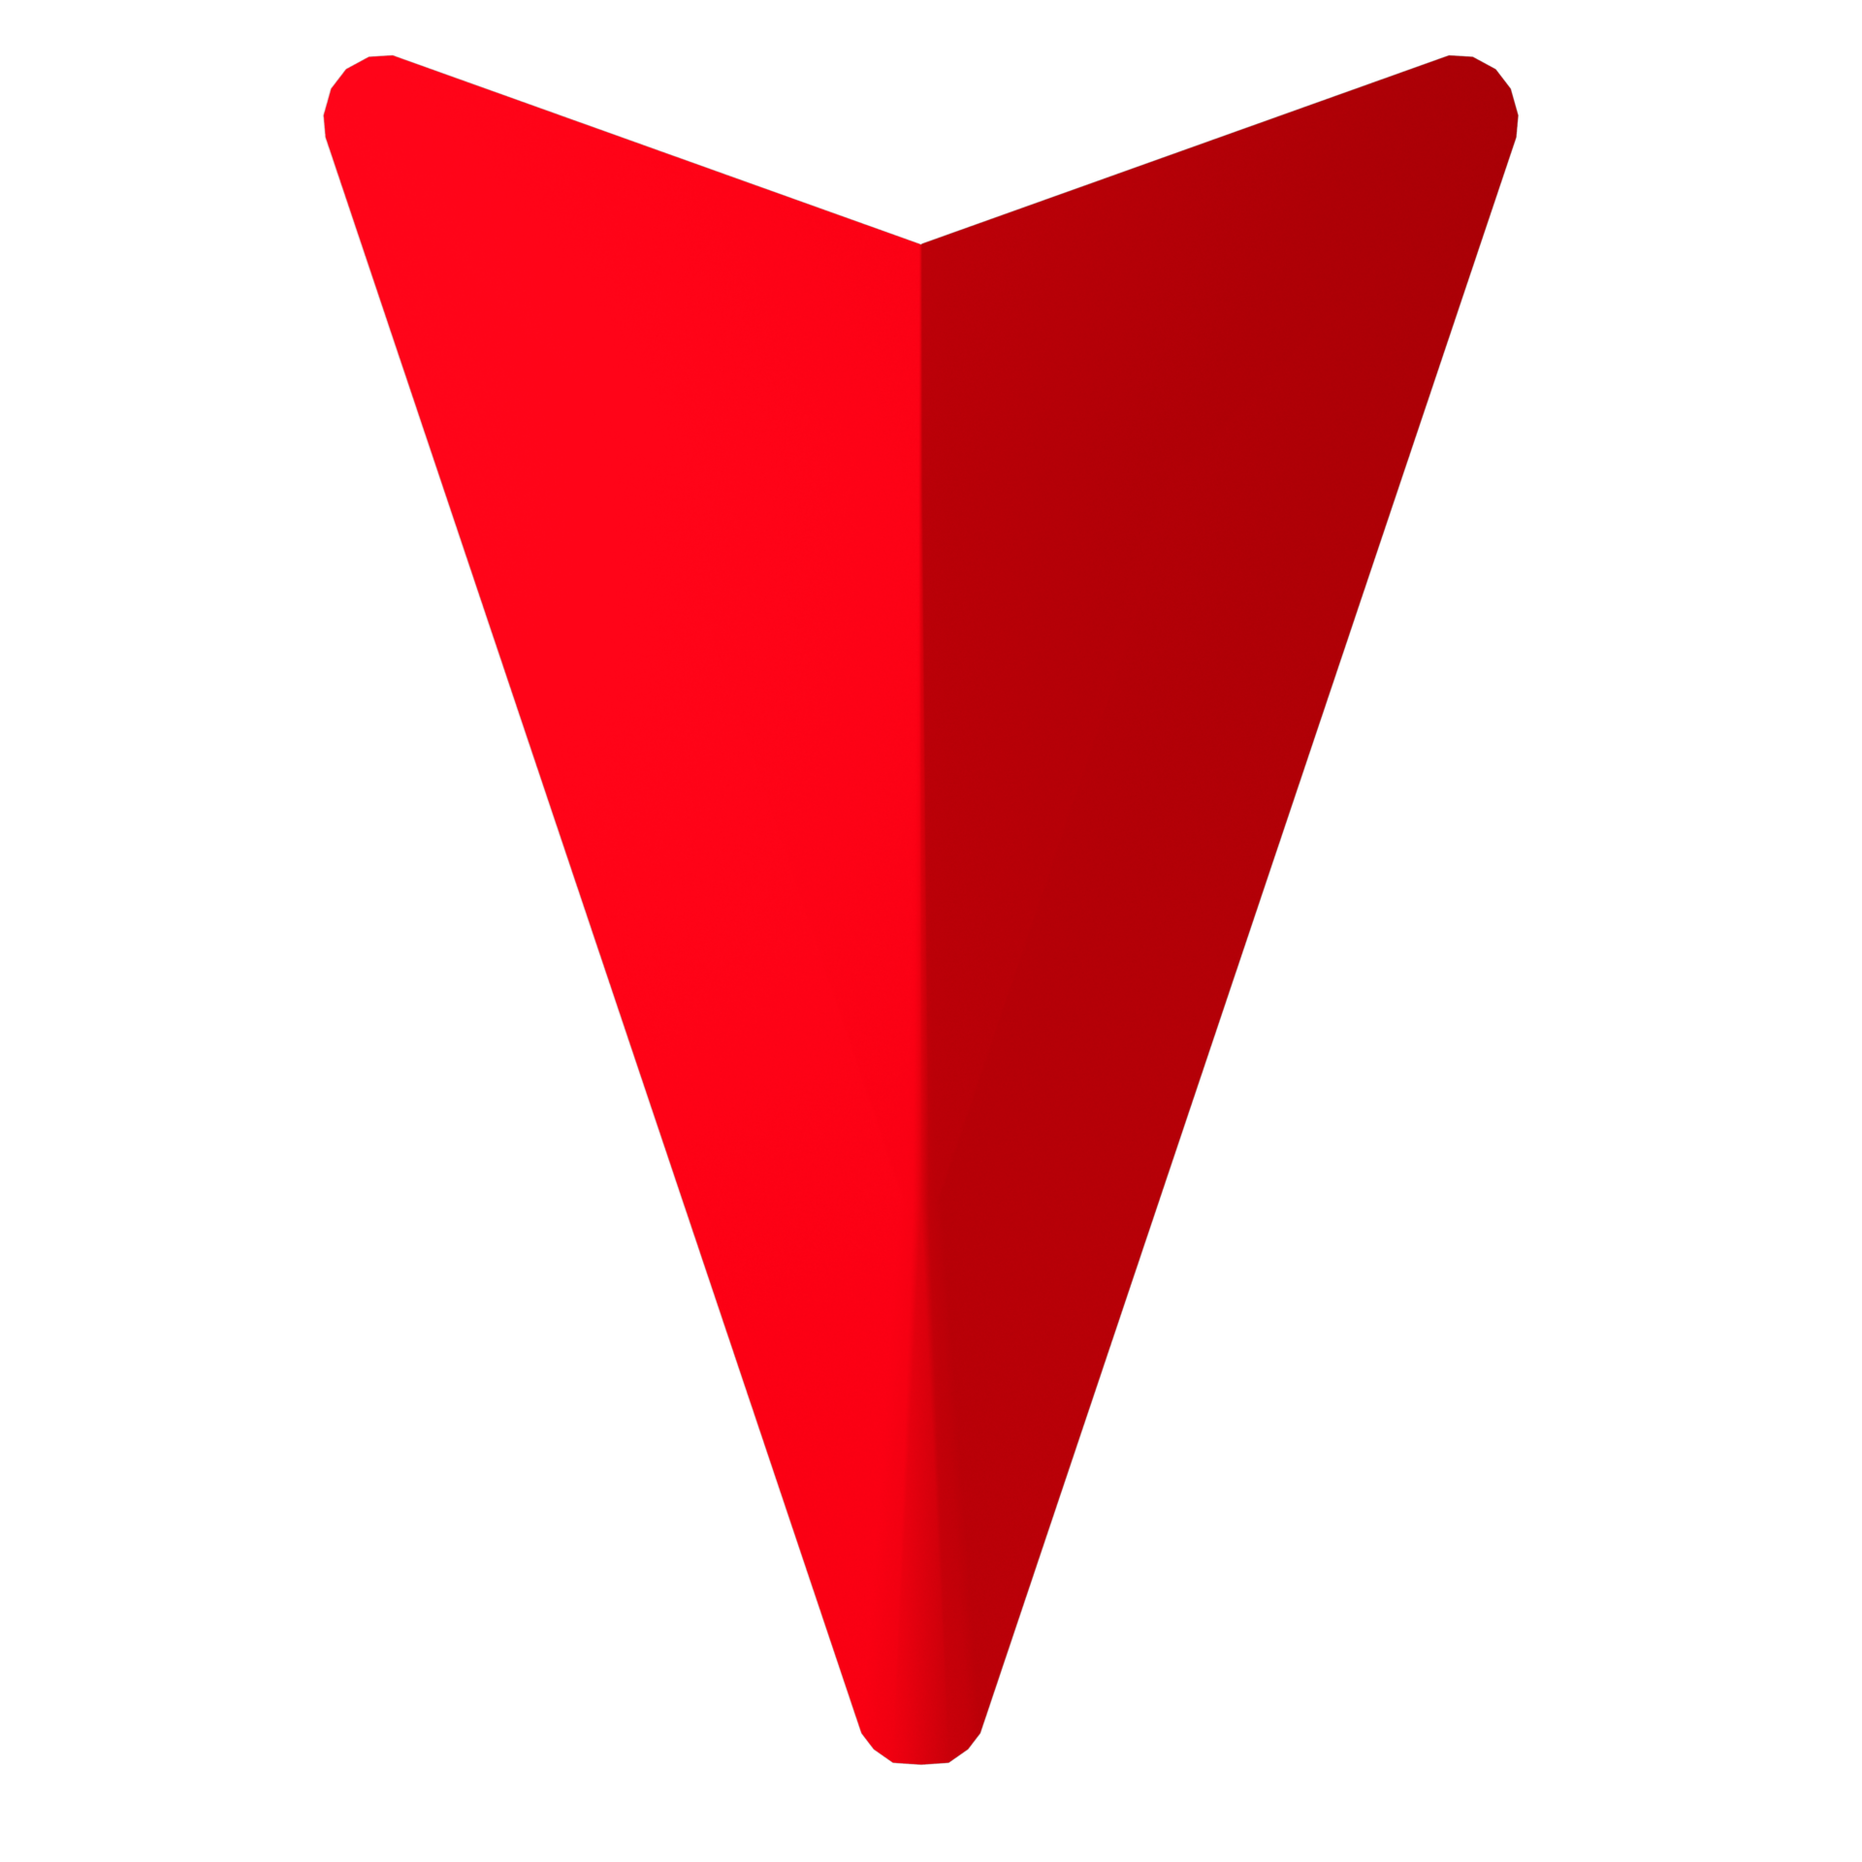
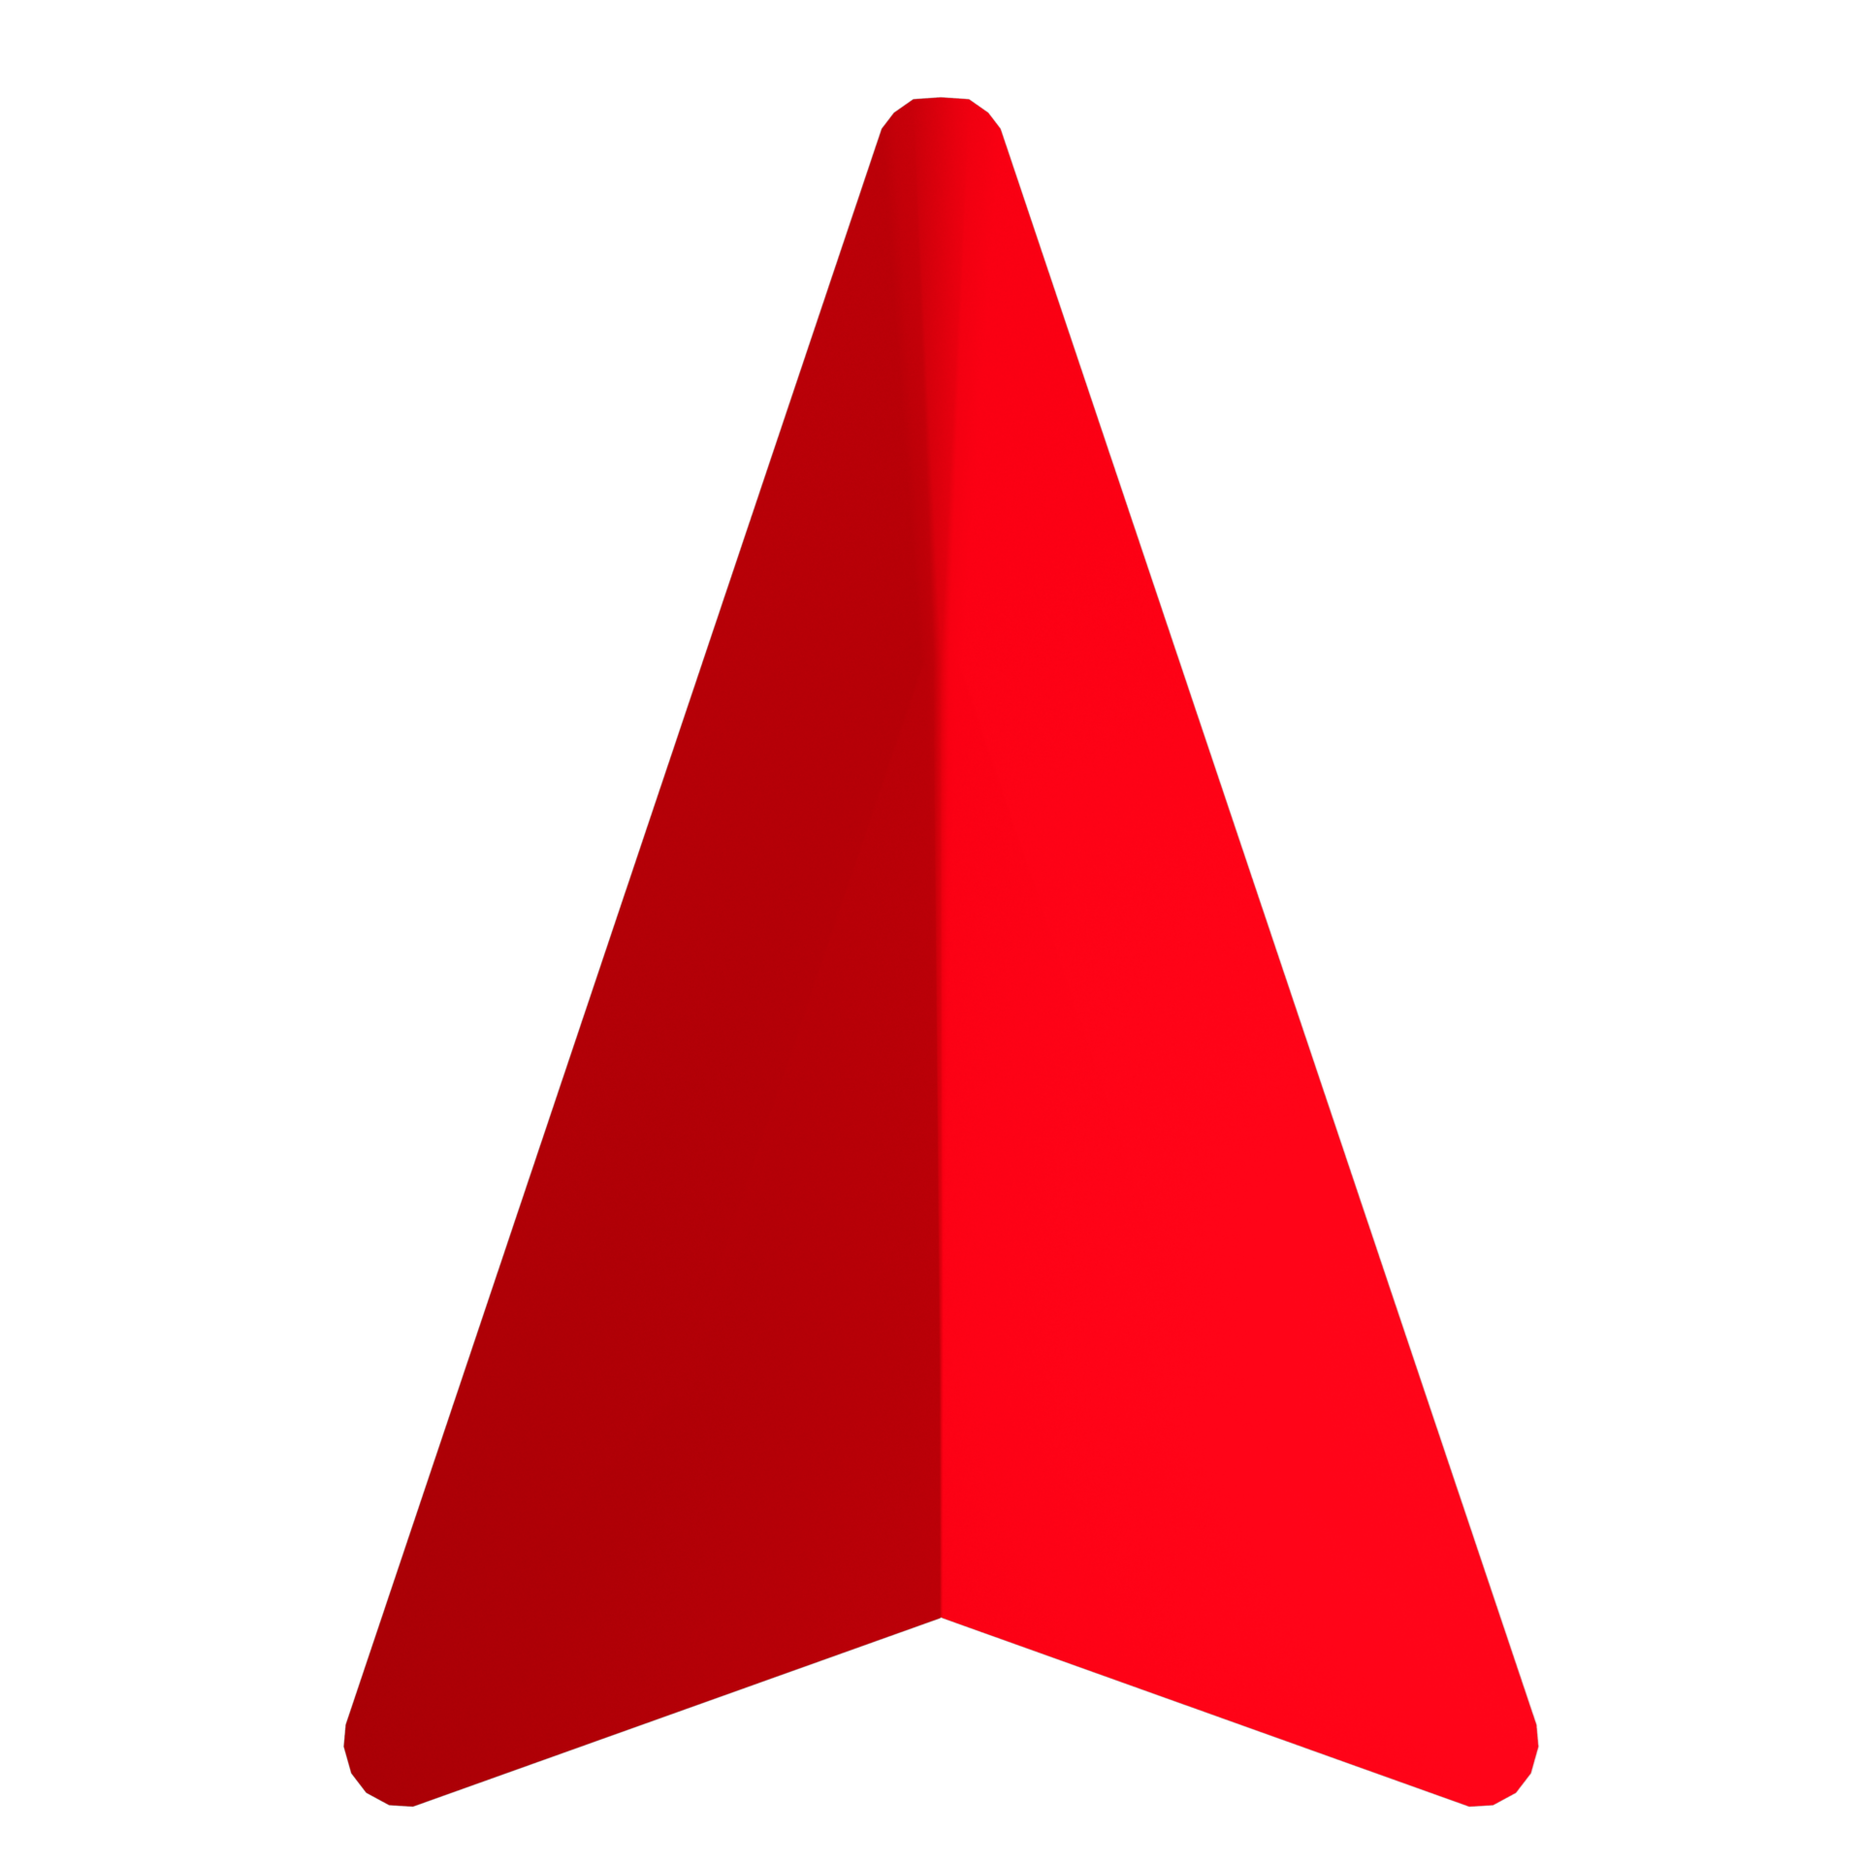
added gaussian dist for sensor placement sensor data is now in ac_inputs

diff --git a/ac_inputs.py b/ac_inputs.py
@@ -32,51 +32,15 @@ else:
     print("Initialization already done. Skipping setup.")
 
 
-def read_map_config(path):
-    config = configparser.ConfigParser()
-
-    # Read the .ini file
-    config.read(path)
-    parameters = {}
-    if 'PARAMETERS' in config:
-        for key in config['PARAMETERS']:
-            value = config.get('PARAMETERS', key)
-            if value.isdigit():
-                parameters[key] = int(value)
-            elif value.replace('.', '', 1).isdigit():
-                parameters[key] = float(value)
-            else:
-                parameters[key] = value
-
-    return parameters
-
-
-def get_track_attributes():
-    assetto_corsa_root = 'D:\\SteamLibrary\\steamapps\\common\\assettocorsa\\'
-    tracks_root = 'content\\tracks\\'
-
-    current_track = f'{assetto_corsa_root}{tracks_root}{gi.track_name[0]}'
-    if gi.track_name[1]:
-        current_track = f'{current_track}\\{gi.track_name[1]}'
-
-    track_map_path = f'{current_track}\\map.png'
-    map_data_path = f'{current_track}\\data\\map.ini'
-    map_data = read_map_config(map_data_path)
-    map_image = Image.open(track_map_path)
-
-    map_ = {'map_data': map_data,
-            'map_image': map_image}
-
-    return map_
-
-
-def count_attributes(cls):
-    return len([attr for attr in dir(cls) if not attr.startswith('__') and not callable(getattr(cls, attr))])
+def count_info_attributes(cls):
+    return [attr for attr in dir(cls) if not attr.startswith('__') and not callable(getattr(cls, attr))]
 
 
 class GetInfo:
     def __init__(self) -> None:
-        pass
+        current_track = self.get_track_attributes()
+        self.map_data = current_track['map_data']
+        self.map_image = current_track['map_image']
 
     @ property
     def track_name(self):
@@ -189,6 +153,58 @@ class GetInfo:
         '''Returns [x,y,z]'''
         return info.graphics.carCoordinates[:]
 
+    def gauss(self, n, sigma=50, range=(0, 1)):
+        r = np.arange(-int(n/2), int(n/2)+1)
+        result = np.array([1 / (sigma * np.sqrt(2*np.pi)) *
+                          np.exp(-float(x)**2/(2*sigma**2)) for x in r])
+        result = (result - min(result)) / (max(result) - min(result))
+        if range != (0, 1):
+            result = result * (range[1] - range[0]) + range[0]
+        return result
+
+    def read_map_config(self, path):
+        config = configparser.ConfigParser()
+
+        # Read the .ini file
+        config.read(path)
+        parameters = {}
+        if 'PARAMETERS' in config:
+            for key in config['PARAMETERS']:
+                value = config.get('PARAMETERS', key)
+                if value.isdigit():
+                    parameters[key] = int(value)
+                elif value.replace('.', '', 1).isdigit():
+                    parameters[key] = float(value)
+                else:
+                    parameters[key] = value
+
+        return parameters
+
+    def get_track_attributes(self):
+        assetto_corsa_root = 'D:\\SteamLibrary\\steamapps\\common\\assettocorsa\\'
+        tracks_root = 'content\\tracks\\'
+
+        current_track = f'{assetto_corsa_root}{tracks_root}{self.track_name[0]}'
+        if self.track_name[1]:
+            current_track = f'{current_track}\\{self.track_name[1]}'
+
+        track_map_path = f'{current_track}\\map.png'
+        map_data_path = f'{current_track}\\data\\map.ini'
+        map_data = self.read_map_config(map_data_path)
+        map_image = Image.open(track_map_path)
+
+        map_ = {'map_data': map_data,
+                'map_image': map_image}
+
+        return map_
+
+    prev_sensor_mean_angle = 0
+
+    def all_sensors(self):
+        return self.get_sensors()
+    sensors = []
+    triggered_sensors = []
+
     def get_sensors(self, min_sensor_distance=10, min_sensor_count=5, FOV_degrees=90):
         coords = self.coordinates
         heading = self.heading
@@ -202,22 +218,62 @@ class GetInfo:
             int(np.ceil(min_sensor_count * sensor_distance/25) // 2 * 2 + 1), min_sensor_count)
 
         angles = np.linspace(-FOV_radians/2, FOV_radians/2,
-                             sensor_count) + np.radians(90)  # offset is due to headingbeing off by -90 degrees
+                             sensor_count) + np.radians(90)  # offset is due to heading being off by -90 degrees
+        # FIXME Sensor drawer has a problem, i shouldn't really offset it
+        # angles = np.arcsin(angles) * FOV_radians / 2
+        distance_offset = self.gauss(
+            sensor_count, 500/self.speed, (.25, 1))
+        # FIXME The top of the gaussian is sparse, fix it
+        #
         sensors = []
-        for angle in angles:
-            sensor_x = coords[0] + sensor_distance * math.cos(heading + angle)
-            sensor_z = coords[2] + sensor_distance * math.sin(heading + angle)
-            sensors.append((sensor_x, sensor_z))
-        return sensors
+        triggered_sensors = [sensor_distance]
+        for idx, angle in enumerate(angles):
+            sensor_x = self.map_data['x_offset'] + \
+                coords[0] + sensor_distance * distance_offset[idx] * \
+                np.cos(heading + angle) * self.map_data['scale_factor']
+
+            sensor_z = self.map_data['z_offset'] + \
+                coords[2] + sensor_distance * distance_offset[idx] * \
+                np.sin(heading + angle) * self.map_data['scale_factor']
+            is_sensor_on_track = self.is_sensor_on_track(
+                sensor_x, sensor_z)
+
+            sensors.append((sensor_x, sensor_z, angle))
+            if is_sensor_on_track:
+                triggered_sensors.append(angle)
+
+        sensor_mean_angle = np.degrees(
+            np.mean(triggered_sensors[1:]))-90
+
+        if np.isnan(sensor_mean_angle):
+            sensor_mean_angle = self.prev_sensor_mean_angle
+        self.prev_sensor_mean_angle = sensor_mean_angle
+
+        triggered_sensors.append(sensor_mean_angle)
+        return sensors, triggered_sensors
+
+    def is_sensor_on_track(self, x, z):
+        # Check if coordinates are within the bounds of the map image
+        if 0 <= int(x) < self.map_image.width and 0 <= int(z) < self.map_image.height:
+            try:
+                pixel_color = self.map_image.getpixel((int(x), int(z)))
+                alpha_value = pixel_color[3]
+                return True if alpha_value == 255 else False
+
+            except Exception as e:
+                print(f"Error checking pixel color at ({x}, {z}):", e)
+                return False
+        else:
+            return False
 
 
 gi = GetInfo()
 
-current_track = get_track_attributes()
+current_track = gi.get_track_attributes()
 
 
 if __name__ == '__main__':
     print(f'Track: {gi.track_name}')
     print(f'Car: {gi.car_name}')
-    print(f'Class attribute count: {count_attributes(gi)}')
+    print(f'Class attribute count: {len(count_info_attributes(gi))}')
     print(current_track['map_data'])

diff --git a/minimap.py b/minimap.py
@@ -1,18 +1,22 @@
-import tkinter as tk
 import math
+import tkinter as tk
+
+import numpy as np
 from PIL import Image, ImageTk
-from ac_inputs import GetInfo, get_track_attributes
+
+from ac_inputs import GetInfo
 
 
 class MinimapApp:
     def __init__(self, root):
+        self.gi = GetInfo()
         self.root = root
         self.root.title("Minimap")
         self.canvas = tk.Canvas(
-            root, width=map_data['width'], height=map_data['height'])
+            root, width=self.gi.map_data['width'], height=self.gi.map_data['height'])
         self.canvas.pack()
 
-        self.map_image_tk = ImageTk.PhotoImage(map_image)
+        self.map_image_tk = ImageTk.PhotoImage(self.gi.map_image)
         self.map_image_on_canvas = self.canvas.create_image(
             0, 0, anchor=tk.NW, image=self.map_image_tk)
 
@@ -21,40 +25,41 @@ class MinimapApp:
         self.arrow_on_canvas = None
 
         self.sensors_on_canvas = []
+        self.sensor_info = self.canvas.create_text(
+            50, 20, anchor='nw', text='', font=("Arial", 12), fill="black")
 
+        # self.triggered_sensors = [0]*5
+
+        self.display_data = self.create_data_on_canvas()
         self.update_minimap()
 
-    def update_minimap(self):
+    def draw_car(self):
         if self.arrow_on_canvas:
             self.canvas.delete(self.arrow_on_canvas)
-        for sensor in self.sensors_on_canvas:
-            self.canvas.delete(sensor)
-        self.sensors_on_canvas.clear()
 
-        coords = gi.coordinates
-        heading = gi.heading
-
-        player_x = map_data['x_offset'] + coords[0] * map_data['scale_factor']
-        player_z = map_data['z_offset'] + coords[2] * map_data['scale_factor']
+        player_x = self.gi.map_data['x_offset'] + \
+            self.gi.coordinates[0] * self.gi.map_data['scale_factor']
+        player_z = self.gi.map_data['z_offset'] + \
+            self.gi.coordinates[2] * self.gi.map_data['scale_factor']
 
         arrow_image_rotated = self.arrow_image.rotate(
-            math.degrees(-heading), expand=True)
+            (math.degrees(-self.gi.heading)+180), expand=True)
         self.arrow_image_tk = ImageTk.PhotoImage(arrow_image_rotated)
 
         self.arrow_on_canvas = self.canvas.create_image(
             player_x, player_z, anchor=tk.CENTER, image=self.arrow_image_tk)
 
-        sensors = gi.get_sensors(
-            min_sensor_distance=10, min_sensor_count=15, FOV_degrees=180)
+    def draw_sensors(self, all_sensors, triggered_sensors):
+        for sensor in self.sensors_on_canvas:
+            self.canvas.delete(sensor)
+        self.sensors_on_canvas.clear()
 
-        for sensor in sensors:
-            sensor_x = map_data['x_offset'] + \
-                sensor[0] * map_data['scale_factor']
-            sensor_z = map_data['z_offset'] + \
-                sensor[1] * map_data['scale_factor']
-
-            if self.is_on_track(sensor_x, sensor_z):
+        for sensor in all_sensors:
+            sensor_x = sensor[0]
+            sensor_z = sensor[1]
+            if sensor[2] in triggered_sensors[1:-1]:  # True if sensor is in track
                 sensor_color = "green"
+
             else:
                 sensor_color = "red"
 
@@ -63,32 +68,64 @@ class MinimapApp:
             )
             self.sensors_on_canvas.append(sensor_on_canvas)
 
+    def create_data_on_canvas(self):
+
+        self.data_text_items = []
+        y_offset = 200  # Starting y-position
+
+        data = {
+            'sensor_distance': 0,
+            'sensor_mean_angle': 0,
+            'performance_meter': self.gi.performance_meter,
+            'speed': self.gi.speed,
+            'steer_angle': self.gi.steer_angle,
+            'track_completion': self.gi.track_completion,
+            'wheel_slip_FL': self.gi.wheel_slip[0],
+            'wheel_slip_FR': self.gi.wheel_slip[1],
+            'wheel_slip_RL': self.gi.wheel_slip[2],
+            'wheel_slip_RR': self.gi.wheel_slip[3],
+            'wheels_offtrack': self.gi.wheels_offtrack}
+
+        for i, key in enumerate(data.keys()):
+            text_item = self.canvas.create_text(
+                200, y_offset + i * 20, anchor='w', text=f"{key}: {data[key]}", font=("Arial", 12), fill="black")
+            self.data_text_items.append(text_item)
+
+    def update_data_on_canvas(self, triggered_sensors):
+        sensor_distance = triggered_sensors[0]
+        sensor_mean_angle = triggered_sensors[-1]
+
+        data = {
+            'sensor_distance': sensor_distance,
+            'sensor_mean_angle': sensor_mean_angle,
+            'performance_meter': self.gi.performance_meter,
+            'speed': self.gi.speed,
+            'steer_angle': self.gi.steer_angle,
+            'track_completion': self.gi.track_completion,
+            'wheel_slip_FL': self.gi.wheel_slip[0],
+            'wheel_slip_FR': self.gi.wheel_slip[1],
+            'wheel_slip_RL': self.gi.wheel_slip[2],
+            'wheel_slip_RR': self.gi.wheel_slip[3],
+            'wheels_offtrack': self.gi.wheels_offtrack}
+
+        for i, (key, value) in enumerate(data.items()):
+            # Update each text item with the new value
+            self.canvas.itemconfig(
+                self.data_text_items[i], text=f"{key}: {value}")
+
+    def update_minimap(self):
+
+        all_sensors, triggered_sensors = self.gi.get_sensors(
+            min_sensor_distance=10, min_sensor_count=5, FOV_degrees=90)
+
+        self.draw_car()
+        self.draw_sensors(all_sensors, triggered_sensors)
+        self.update_data_on_canvas(triggered_sensors)
+
         self.root.after(50, self.update_minimap)
 
-    def is_on_track(self, x, z):
-        # Check if coordinates are within the bounds of the map image
-        if 0 <= int(x) < map_image.width and 0 <= int(z) < map_image.height:
-            try:
 
-                pixel_color = map_image.getpixel((int(x), int(z)))
-
-                alpha_value = pixel_color[3]
-
-                if alpha_value == 255:
-                    return True
-                else:
-                    return False
-
-            except Exception as e:
-                print(f"Error checking pixel color at ({x}, {z}):", e)
-                return False
-        else:
-            return False
-
-
-gi = GetInfo()
-map_data = get_track_attributes()['map_data']
-map_image = get_track_attributes()['map_image']
+# gi = GetInfo()
 
 if __name__ == '__main__':
     root = tk.Tk()
